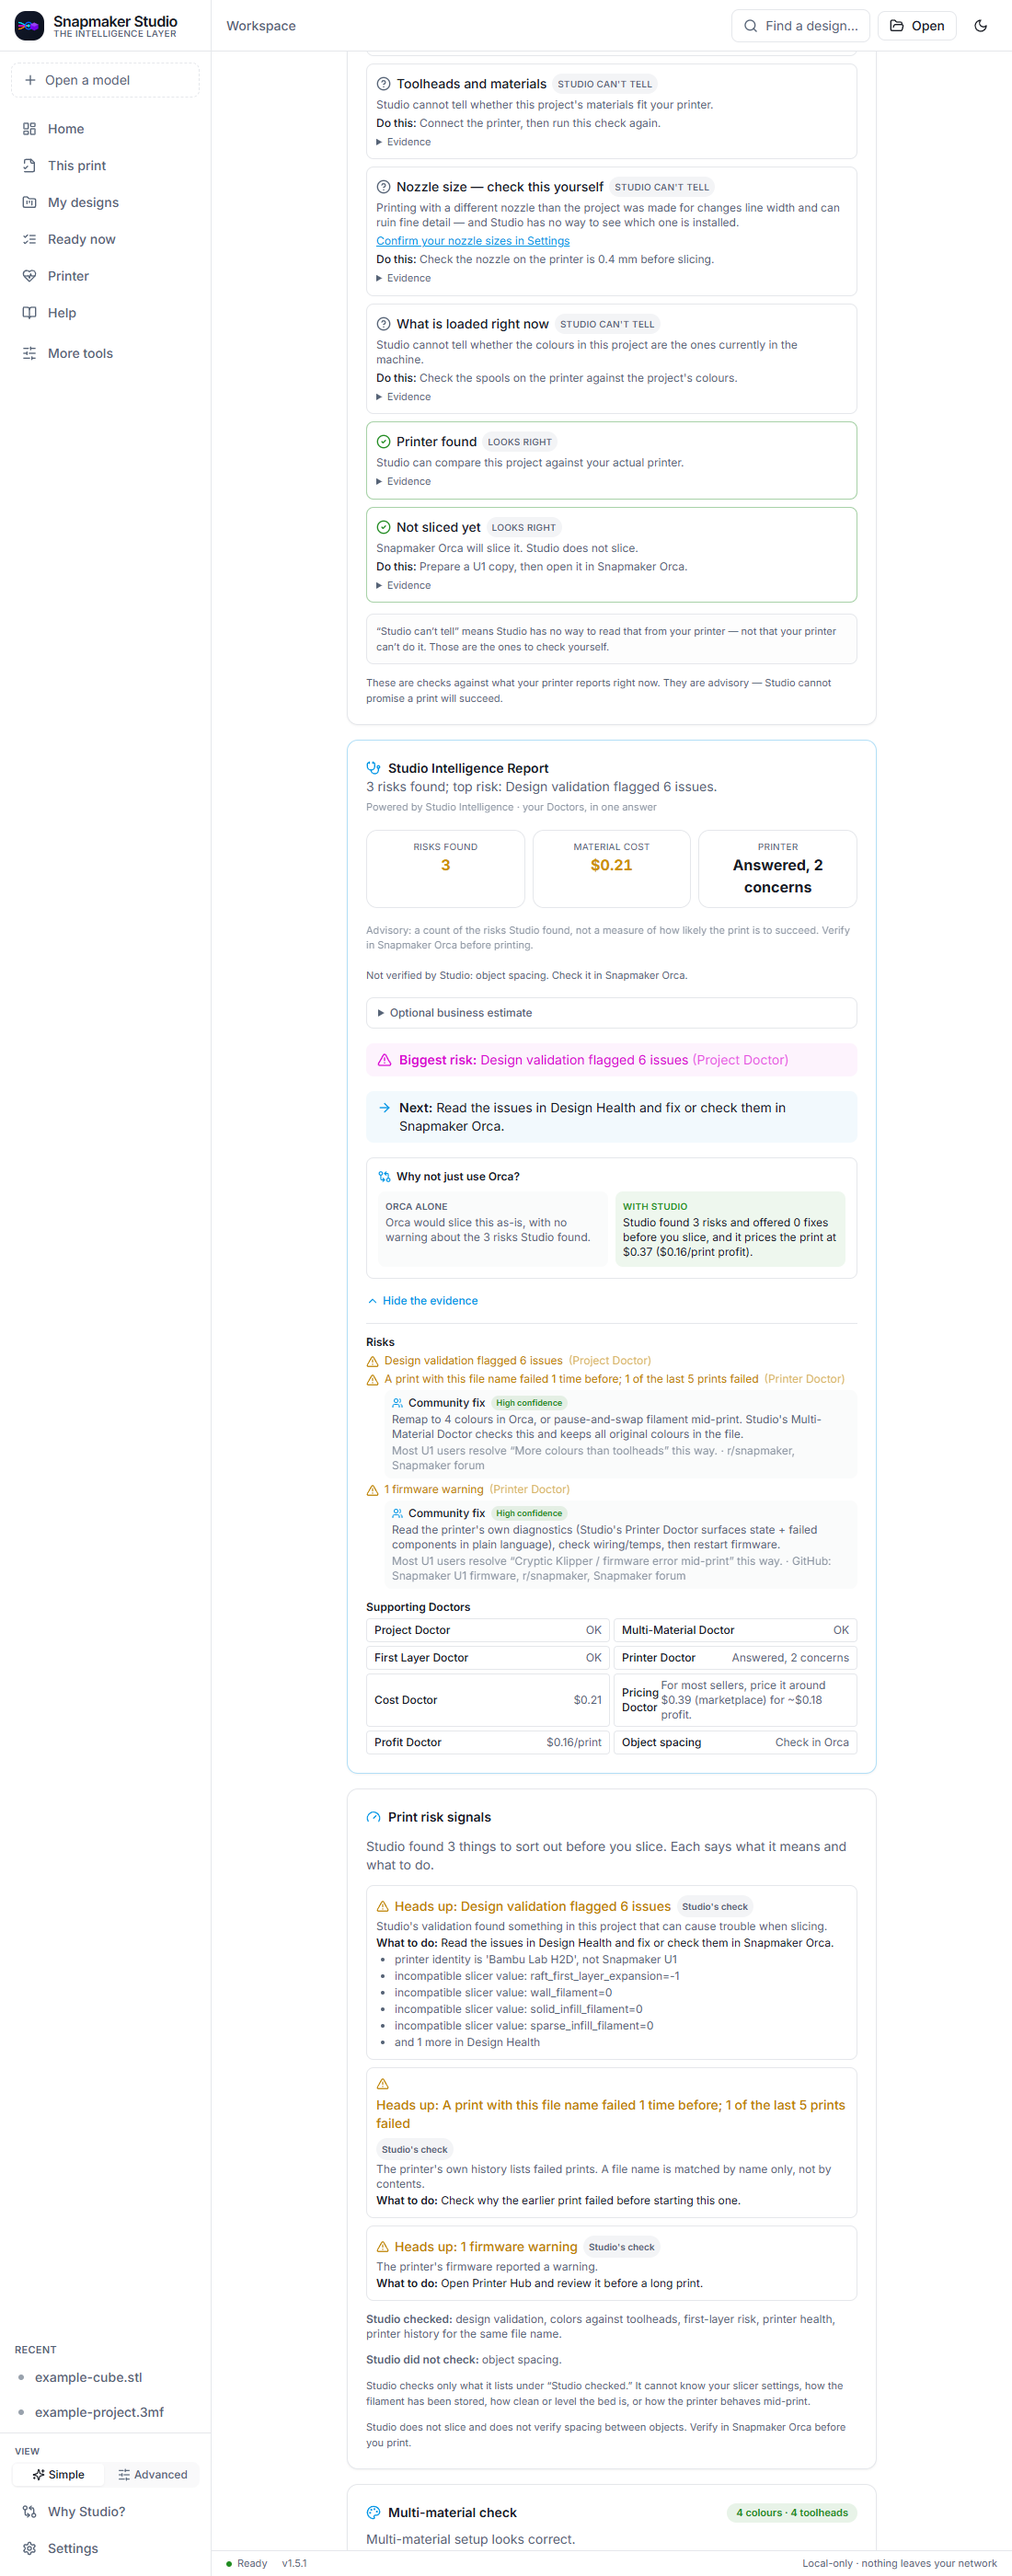
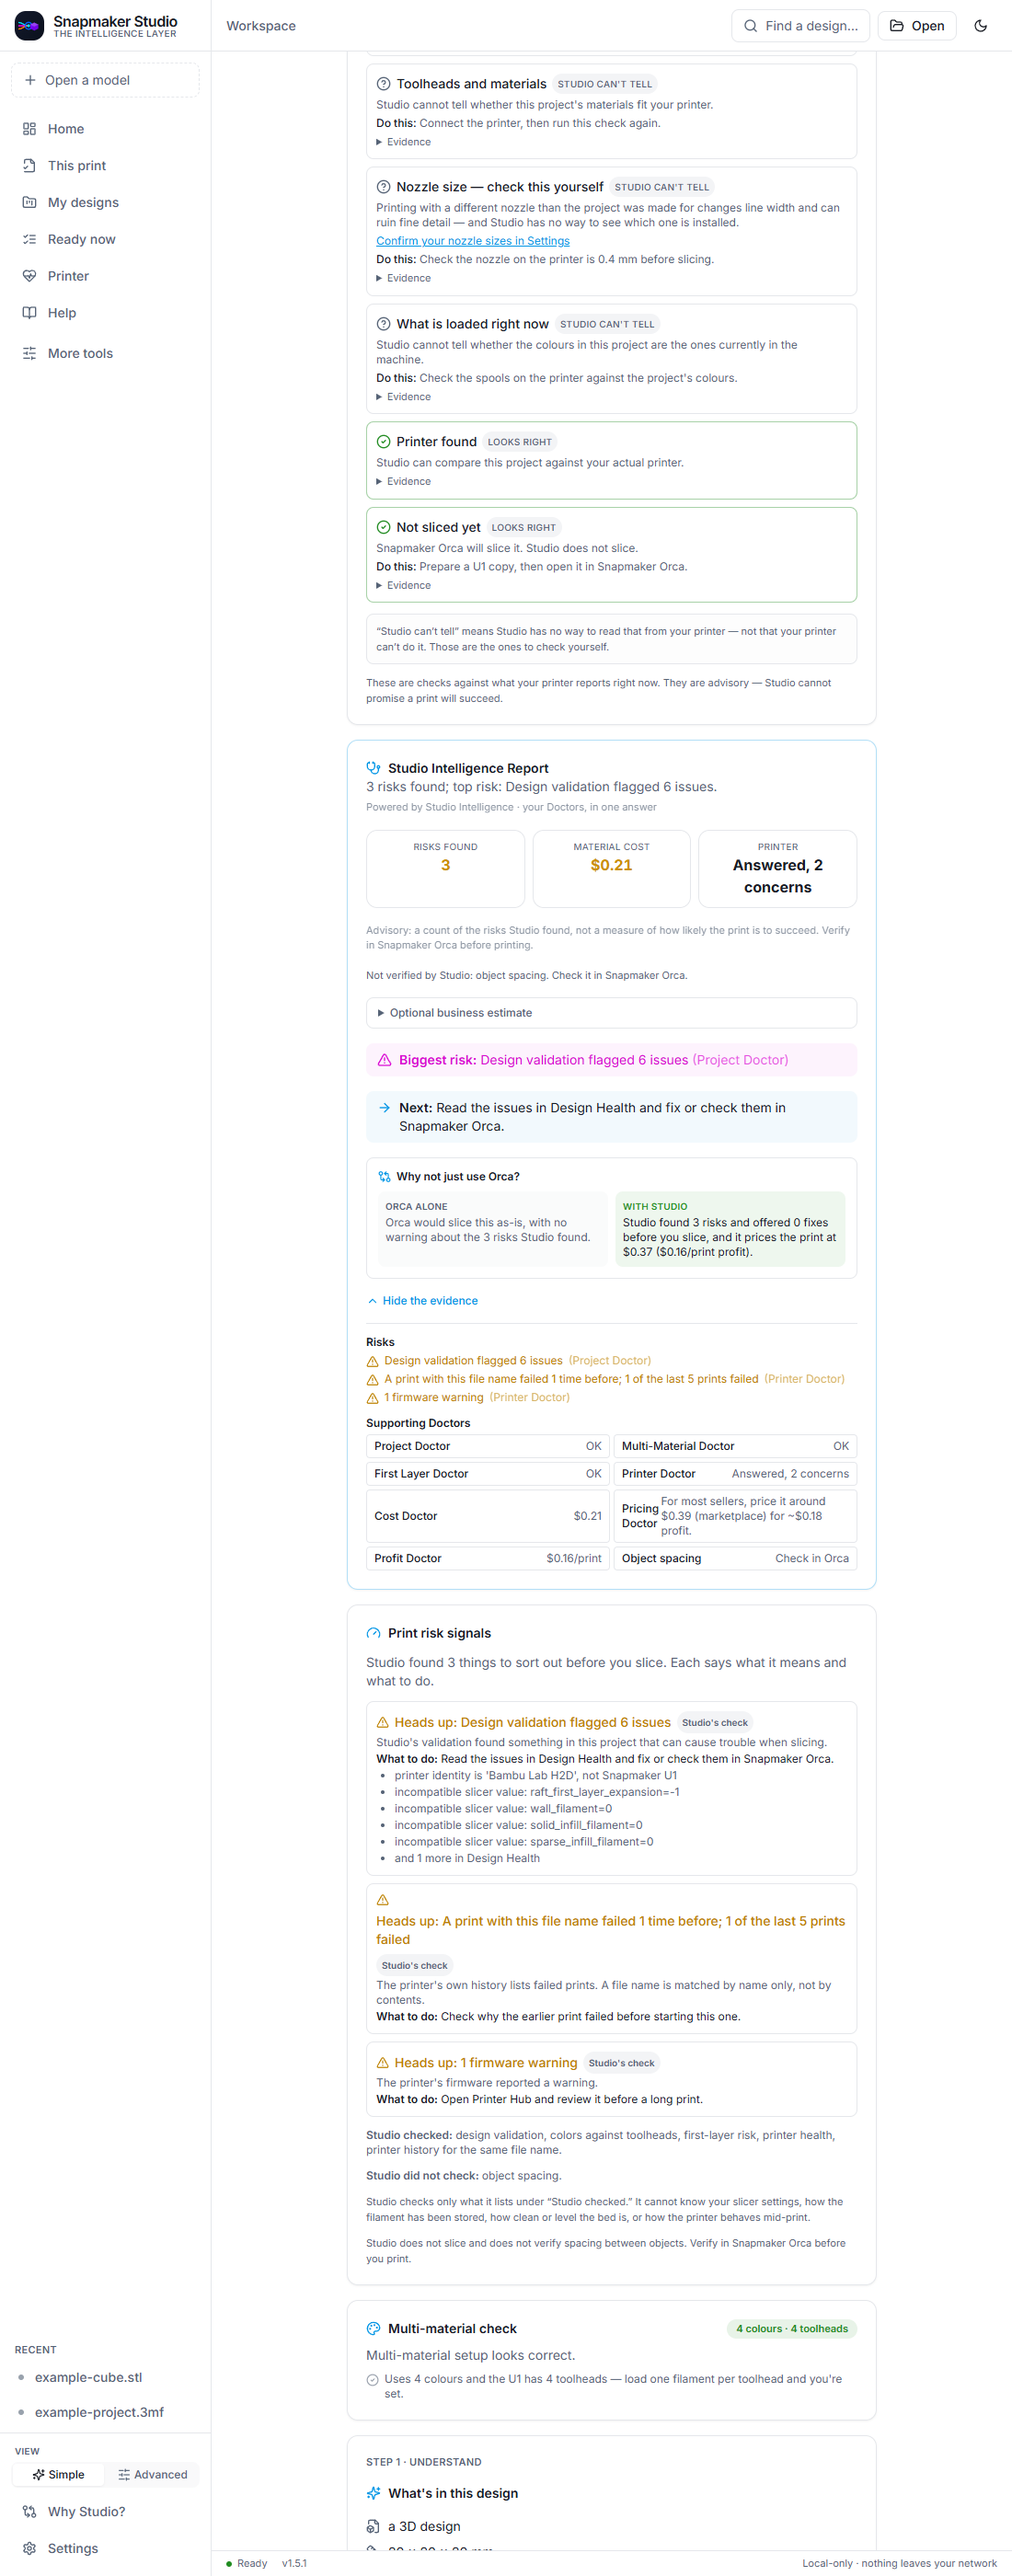
fix(#92): chip follows the condition set; severity follows the failure pattern; one toolhead source; community fix only on a full phrase
printerBadge reads See concerns for any concern while firmware is ready (realistic healthy:false + ready +
warning shape). The failure-history condition is a risk when the failure pattern is a risk, and keeps the streak
in its text. A toolhead signal with no Doctor finding is its own finding (no neighbor is promoted). mm_doctor
and toolhead_fit read the printer's toolhead count through one helper. The report attaches a community fix only
when a full symptom phrase is in the risk text and never to failure history. Contract tests extended; screenshots refreshed.

Changed region(s): [[0.34, 0.5282, 0.8345, 0.9943]]

diff --git a/desktop/src/lib/printerBadge.ts b/desktop/src/lib/printerBadge.ts
@@ -1,6 +1,7 @@
 // The one-word state chip on the connected-printer card. It must agree with the health card below it and with the
 // Intelligence Report's printer line: all three count the same conditions (the health result's `conditions`, one per
-// condition id). "Healthy" is only shown when the firmware state is fine AND there are no concerns.
+// condition id). Any concern reads "See concerns" while the firmware itself is ready; a firmware that is not ready shows
+// its own state. "Healthy" only appears with ready firmware and no concerns.
 export interface BadgeInput {
   diag: { healthy?: boolean; klippy_state?: string | null } | null | undefined;
   /** Number of conditions the printer reported (`health.conditions.length`). */
@@ -10,6 +11,9 @@ export interface Badge { label: string; ok: boolean }
 
 export function printerBadge({ diag, concerns }: BadgeInput): Badge | null {
   if (!diag) return null;
-  if (concerns > 0) return { label: diag.healthy ? "See concerns" : (diag.klippy_state ?? "check"), ok: false };
-  return diag.healthy ? { label: "Healthy", ok: true } : { label: diag.klippy_state ?? "check", ok: false };
+  const state = diag.klippy_state ?? null;
+  const firmwareReady = state === "ready";
+  if (!firmwareReady && state) return { label: state, ok: false };       // shutdown, error, startup: say so
+  if (concerns > 0) return { label: "See concerns", ok: false };
+  return diag.healthy ? { label: "Healthy", ok: true } : { label: state ?? "check", ok: false };
 }

diff --git a/desktop/src/lib/printerBadge.test.ts b/desktop/src/lib/printerBadge.test.ts
@@ -13,6 +13,11 @@ describe("printerBadge", () => {
   it("never says Healthy with concerns (ready firmware, no firmware warning, one failed print)", () => {
     expect(printerBadge({ diag: ready, concerns: 1 })).toEqual({ label: "See concerns", ok: false });
   });
+  it("reads See concerns, not 'ready', for the realistic firmware-warning shape (healthy:false, klippy ready)", () => {
+    const warned = { healthy: false, klippy_state: "ready" };   // diagnostics sets healthy=false whenever warnings exist
+    expect(printerBadge({ diag: warned, concerns: 1 })).toEqual({ label: "See concerns", ok: false });
+    expect(printerBadge({ diag: warned, concerns: 2 })?.label).toBe("See concerns");
+  });
   it("keeps the firmware state when it is not ready", () => {
     expect(printerBadge({ diag: { healthy: false, klippy_state: "shutdown" }, concerns: 0 })).toEqual({ label: "shutdown", ok: false });
     expect(printerBadge({ diag: { healthy: false, klippy_state: "shutdown" }, concerns: 2 })?.label).toBe("shutdown");

diff --git a/backend/tests/test_condition_contract.py b/backend/tests/test_condition_contract.py
@@ -165,3 +165,76 @@ def test_desktop_printer_health_fixture_is_the_real_producer_output():
     if not FIXTURE.exists():
         FIXTURE.write_text(json.dumps(expected, indent=2, sort_keys=True) + "\n", encoding="utf-8")
     assert json.loads(FIXTURE.read_text(encoding="utf-8")) == expected
+
+
+# --- additions: severity follows the failure pattern, standalone findings, one toolhead source, community fixes ---
+def test_failure_severity_follows_the_failure_pattern_and_keeps_the_streak():
+    statuses = ["error"] * 6 + ["completed"] * 2 + ["error"] * 2
+    assert fp.assess(_jobs(*statuses))["overall_level"] == "risk"       # 80% failed, 6 in a row
+    health = _health(statuses)
+    assert health["conditions"][0]["level"] == "risk"
+    predict = sp.findings(readiness={"ready": True}, health=health, prior_failures=1, printer_checked=True)
+    report = ir.build(predict=predict, health=health)
+    by_id = _agree(predict, report, health)
+    f = by_id["printer-failure-history"]
+    assert f["level"] == "risk" and "6 prints failed in a row" in f["text"] and "failed 1 time before" in f["text"]
+    assert report["biggest_risk"]["level"] == "risk"
+    # a mild history stays a warn
+    mild = _health(["error"] + ["completed"] * 4)
+    assert fp.assess(_jobs("error", *["completed"] * 4))["overall_level"] != "risk" and mild["conditions"][0]["level"] == "warn"
+
+
+def test_toolhead_signal_without_a_doctor_finding_is_its_own_finding_not_a_promoted_neighbor():
+    """mm_doctor sees 8 toolheads (no colors problem) + a metadata issue; an independent predictor sees 4."""
+    mm = mm_doctor.assess(5, heads=8, heads_known=True, metadata_issues=["filament array mismatch"])
+    assert [f.get("id") for f in mm["findings"] if f["level"] != "ok"] == ["filament-metadata"]
+    predict = sp.findings(readiness={"ready": True}, toolfit=tf.assess(5, 4, True))
+    report = ir.build(predict=predict, mm=mm)
+    by_id = _agree(predict, report)
+    assert set(by_id) == {"filament-metadata", "toolhead-fit"}
+    assert by_id["filament-metadata"]["level"] == "warn" and by_id["filament-metadata"]["action"].startswith("Run repair")
+    assert by_id["toolhead-fit"]["level"] == "risk" and by_id["toolhead-fit"]["action"].startswith("Remap")
+    assert report["biggest_risk"]["condition"] == "toolhead-fit"
+
+
+def test_service_doctors_share_one_toolhead_count_source(monkeypatch, tmp_path):
+    from snapstudio_api import service
+    from snapstudio_core import moonraker
+    calls = []
+    monkeypatch.setattr(moonraker, "capabilities", lambda h, p: (calls.append((h, p)) or {"toolhead_count": 8}))
+    assert service._toolhead_count("host", 7125) == (8, True)
+    assert service._toolhead_count(None) == (None, False)
+    monkeypatch.setattr(moonraker, "capabilities", lambda h, p: (_ for _ in ()).throw(OSError("down")))
+    assert service._toolhead_count("host", 7125) == (None, False)
+    import inspect
+    assert "moonraker.capabilities" not in inspect.getsource(service.mm_doctor)
+    assert "moonraker.capabilities" not in inspect.getsource(service.toolhead_fit)
+
+
+def test_bed_fit_finding_carries_its_own_action_so_next_is_never_look_into():
+    from snapstudio_core import bed_fit as bf
+    bed = bf.assess({"x": 268, "y": 100, "z": 10}, bed={"x": 270, "y": 270, "z": 270}, bed_known=True, object_count=1, multi_material=False)
+    non_ok = [f for f in bed["findings"] if f["level"] != "ok"]
+    assert non_ok and all(f.get("action") for f in non_ok)
+    report = ir.build(bed_fit=bed)
+    assert report["biggest_risk"]["condition"] == "bed-near-full"
+    assert report["next_action"] == non_ok[0]["action"] and not report["next_action"].startswith("Look into")
+
+
+def test_community_fix_needs_a_full_symptom_phrase_and_never_attaches_to_failure_history():
+    for statuses, prior in ((["error"] + ["completed"] * 4, 1), (["error"] * 6 + ["completed"] * 2 + ["error"] * 2, 1)):
+        health = _health(statuses)
+        predict = sp.findings(readiness={"ready": True}, health=health, prior_failures=prior, printer_checked=True)
+        report = ir.build(predict=predict, health=health)
+        failure = next(r for r in report["risks"] if r["condition"] == "printer-failure-history")
+        assert "community" not in failure, failure["text"]
+    repeat_only = ir.build(predict=sp.findings(readiness={"ready": True}, prior_failures=1, printer_checked=True))
+    assert all("community" not in r for r in repeat_only["risks"])
+    # the positive case: a real colors-vs-toolheads risk still gets its entry
+    mm = mm_doctor.assess(5, heads=4, heads_known=True)
+    colors = ir.build(mm=mm, predict=sp.findings(readiness={"ready": True}, toolfit=tf.assess(5, 4, True)))
+    assert "More colours than toolheads" in colors["risks"][0]["community"]["success_pattern"]
+    # ...and so does a real out-of-bounds risk, while a number shared with a symptom ("5 colours") means nothing
+    from snapstudio_core import bed_fit as bf
+    big = ir.build(bed_fit=bf.assess({"x": 300, "y": 100, "z": 10}, bed={"x": 270, "y": 270, "z": 270}, bed_known=True))
+    assert "Out of bounds" in big["risks"][0]["community"]["success_pattern"]

diff --git a/backend/snapstudio_core/health_score.py b/backend/snapstudio_core/health_score.py
@@ -44,7 +44,7 @@ def score(diagnostics=None, failures=None) -> dict:
     # One condition per thing the printer reported (never one per line of evidence): the failure rate and the
     # failure streak describe the same failed jobs, so they are ONE condition with merged text.
     # Each: (penalty_points, condition id, plain-language text).
-    conds: list[tuple[int, str, str]] = []
+    conds: list[tuple] = []
 
     if have_fail:
         parts: list[str] = []
@@ -65,28 +65,30 @@ def score(diagnostics=None, failures=None) -> dict:
             penalty_f += 15
             parts.append(f"{streak} prints failed in a row")
         if parts:
-            conds.append((penalty_f, "printer-failure-history", "; ".join(parts)))
+            # the level follows the failure-pattern result itself (80% failed / a long streak is a risk, not a warn)
+            conds.append((penalty_f, "printer-failure-history", "; ".join(parts),
+                          "risk" if failures.get("overall_level") == "risk" else "warn"))
 
     if have_diag:
         st = diagnostics.get("klippy_state")
         if st and st != "ready":
-            conds.append((30, "firmware-not-ready", f"firmware not ready ({st})"))
+            conds.append((30, "firmware-not-ready", f"firmware not ready ({st})", "warn"))
         fc = diagnostics.get("failed_components") or []
         if fc:
             conds.append((min(40, 20 * len(fc)), "firmware-failed-component",
-                          f"{len(fc)} failed firmware component{'s' if len(fc) != 1 else ''}"))
+                          f"{len(fc)} failed firmware component{'s' if len(fc) != 1 else ''}", "warn"))
         warns = diagnostics.get("warnings") or []
         if warns:
             conds.append((min(15, 5 * len(warns)), "firmware-warning",
-                          f"{len(warns)} firmware warning{'s' if len(warns) != 1 else ''}"))
+                          f"{len(warns)} firmware warning{'s' if len(warns) != 1 else ''}", "warn"))
 
-    penalty = sum(p for p, _, _ in conds)
+    penalty = sum(c[0] for c in conds)
     value = max(0, min(100, 100 - penalty))
     grade = _grade(value)
 
     # Most impactful first; if nothing pulled it down, say so.
     conds.sort(key=lambda c: c[0], reverse=True)
-    conditions = [{"id": cid, "level": "warn", "text": text} for _, cid, text in conds]
+    conditions = [{"id": cid, "level": level, "text": text} for _, cid, text, level in conds]
     has_concerns = bool(conditions)
     driver_text = [c["text"] for c in conditions] or ["No problems found in firmware state or recent history."]
 

diff --git a/backend/snapstudio_api/service.py b/backend/snapstudio_api/service.py
@@ -2029,6 +2029,21 @@ def batch_pricing(paths: list[str], currency: str = "$", **factors) -> dict:
     return pricing.aggregate(priced)
 
 
+def _toolhead_count(host: str | None, port: int = 7125) -> tuple:
+    """The ONE place the toolhead count is read: (count, known) from the connected printer, or (None, False).
+    The Multi-Material Doctor and the Toolhead-Fit Doctor both use it, so they cannot disagree about the printer."""
+    if not host:
+        return None, False
+    from snapstudio_core import moonraker
+    try:
+        caps = moonraker.capabilities(host, port)   # can raise when unreachable
+        if caps.get("toolhead_count"):
+            return caps["toolhead_count"], True
+    except Exception:
+        pass
+    return None, False
+
+
 def mm_doctor(path: str, host: str | None = None, port: int = 7125) -> dict:
     """Multi-Material Doctor: one verdict for a multicolour U1 print — colours vs
     toolheads, filament-settings consistency, painted-region mapping. Uses the
@@ -2038,16 +2053,7 @@ def mm_doctor(path: str, host: str | None = None, port: int = 7125) -> dict:
     info = project_info(path)
     issues = info.get("issues") or []
     metadata_issues = [i for i in issues if "filament metadata inconsistent" in str(i)]
-    heads = None
-    heads_known = False
-    if host:
-        from snapstudio_core import moonraker
-        try:
-            caps = moonraker.capabilities(host, port)
-            if caps.get("toolhead_count"):
-                heads, heads_known = caps["toolhead_count"], True
-        except Exception:
-            pass
+    heads, heads_known = _toolhead_count(host, port)
     return mmd.assess(info.get("colors"), heads=heads, heads_known=heads_known,
                       painted=bool(info.get("painted")), metadata_issues=metadata_issues,
                       object_count=info.get("objects") or 1)
@@ -2323,17 +2329,7 @@ def toolhead_fit(path: str, host: str | None = None, port: int = 7125) -> dict:
     from snapstudio_core import toolhead_fit as tf
     info = project_info(path)
     colors = info.get("colors")
-    heads = None
-    known = False
-    if host:
-        from snapstudio_core import moonraker
-        try:
-            caps = moonraker.capabilities(host, port)   # can raise when unreachable
-            if caps.get("toolhead_count"):
-                heads = caps["toolhead_count"]
-                known = True
-        except Exception:
-            pass
+    heads, known = _toolhead_count(host, port)
     return tf.assess(colors, heads, known)
 
 

diff --git a/backend/snapstudio_core/intelligence_report.py b/backend/snapstudio_core/intelligence_report.py
@@ -18,6 +18,15 @@ SCHEMA_VERSION = "report/2"   # 2: no studio_score / print_success_score / expec
 _ORDER = {"ok": 0, "warn": 1, "risk": 2}
 
 
+def _community_entries(ck, risk) -> list:
+    """Community entries for one report risk: only a FULL symptom phrase found in the risk text counts (a shared word
+    or a shared number does not), and printer failure history never gets one. The global matcher is left as it is."""
+    if risk.get("condition") == C.PRINTER_FAILURE_HISTORY:
+        return []
+    text = (risk.get("text") or "").lower()
+    return [e for e in ck.match(text, limit=6) if any(sym in text for sym in e["symptoms"])]
+
+
 def demo() -> dict:
     """Demo Mode: a representative report for a typical multicolour U1 model —
     no file, no printer needed, deterministic, for Innovation Fund reviewers.
@@ -140,7 +149,7 @@ def build(predict=None, bed_fit=None, mm=None, first_layer=None, health=None,
     try:
         from . import community_knowledge as ck
         for rk in risks:
-            hit = ck.match(rk["text"], limit=1)
+            hit = _community_entries(ck, rk)
             if hit:
                 e = hit[0]
                 rk["community"] = {
